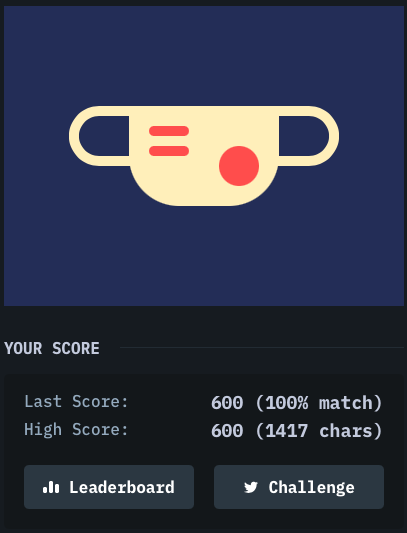
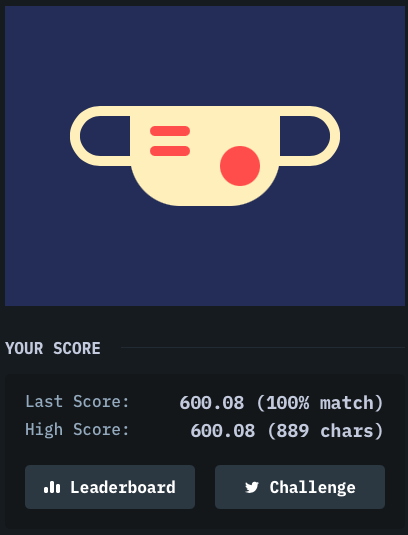
Improved mask

diff --git a/Mask/index.html b/Mask/index.html
@@ -1,36 +1,64 @@
+<div class="container">
+  <div class="c c1"></div>
+  <div class="c c2"></div>
+  <div class="c f c3"></div>
+  <div class="c f g c4"></div>
+  <div class="c f g c5"></div>
+</div>
 
-<div class='container'>
-  <div class='c c1'></div>
-  <div class='c c2'></div>
-  <div class='c c3'></div>
-  <div class='c c4'></div>
-  <div class='c c5'></div>
-  </div>
-  
-  <style>
-    html {
-      background: #293462;
-    }
-    
-    .container{
-      position: relative;
-    }
-    
-    .c1{
-      position: absolute;
-      left: 57px;
-      top: 92px;
-      width: 250px;
-      height: 40px;
-      border: 10px solid #FFF1C1;
-      border-radius: 50px;
-    }
-  </style>
-  
-  <!-- OBJECTIVE -->
-  <!-- Write HTML/CSS in this editor and replicate the given target image in the least code possible. What you write here, renders as it is -->
-  
-  <!-- SCORING -->
-  <!-- The score is calculated based on the number of characters you use (this comment included :P) and how close you replicate the image. Read the FAQS (https://cssbattle.dev/faqs) for more info. -->
-  
-  <!-- IMPORTANT: remove the comments before submitting -->
+<style>
+  html {
+    background: #293462;
+  }
+
+  .container {
+    position: relative;
+  }
+
+  .c {
+    position: absolute;
+  }
+
+  .c1 {
+    left: 57px;
+    top: 92px;
+    width: 250px;
+    height: 40px;
+    border: 10px solid #fff1c1;
+    border-radius: 50px;
+  }
+
+  .c2 {
+    left: 117px;
+    top: 100px;
+    height: 92px;
+    width: 150px;
+    background-color: #fff1c1;
+    border-radius: 0 0 50px 50px;
+  }
+
+  .f {
+    background-color: #fe5f55;
+  }
+  .c3 {
+    left: 207px;
+    top: 132px;
+    height: 40px;
+    width: 40px;
+    border-radius: 50%;
+  }
+
+  .g {
+    width: 40px;
+    height: 10px;
+    border-radius: 50px;
+    left: 137px;
+  }
+  .c4 {
+    top: 112px;
+  }
+
+  .c5 {
+    top: 132px;
+  }
+</style>
